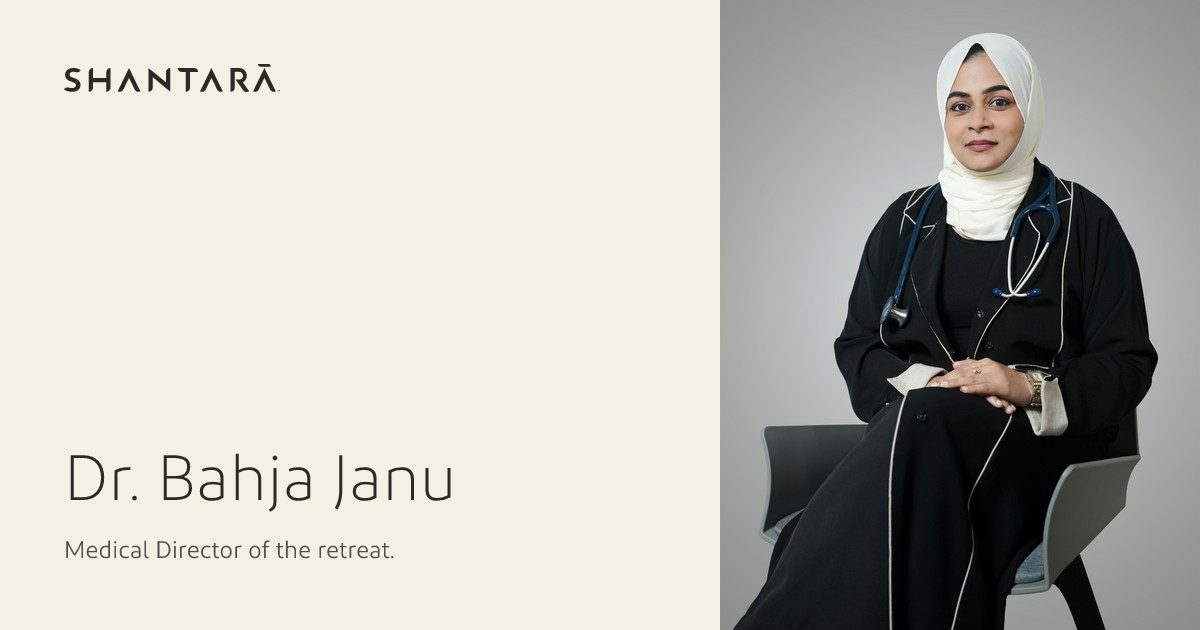
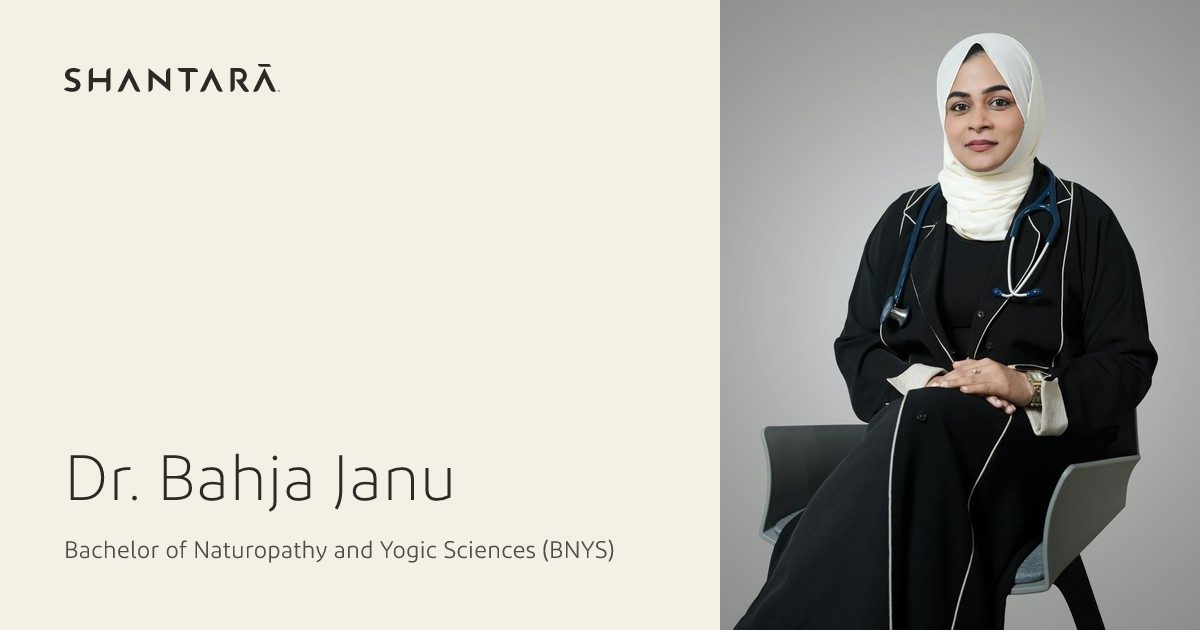
Record doctor credentials from resumes in handbook section 4 and content/doctors.
Fills Dr. Bahja Janu's qualifications, registrations and areas of practice, and adds Dr. Gangrei Gangmei, Dr. Keerthana V S and Dr. Sara Shanti Alen as draft records. Open questions stay [TO CONFIRM]. Kit doctor rows stay limited to the two lead doctors so PeopleRow keeps within four portraits.

Changed region(s): [[0.0617, 0.8444, 0.5242, 0.9048]]

diff --git a/content/kit.js b/content/kit.js
@@ -1248,18 +1248,93 @@ window.ShantaraContent = {
       "full_name": "Dr. Bahja Janu",
       "role": "Medical Director",
       "photo_profile": "doctor-bahja-janu-portrait-cropped.jpeg",
-      "qualification": null,
-      "years_practice": null,
+      "qualification": "Bachelor of Naturopathy and Yogic Sciences (BNYS)",
+      "registration": [
+        {
+          "body": "Travancore-Cochin Medical Council (TCMC), Kerala",
+          "number": null
+        },
+        {
+          "body": "Saudi Ministry of Health",
+          "number": null
+        }
+      ],
+      "years_practice": "13+",
       "publications_note": null,
-      "biography": null,
-      "areas_of_practice": [],
+      "biography": "Medical Director at Shantara since October 2025. Chief Medical Officer at Hygiene Nature Cure Hospital, Kozhikode, from 2012. Treats the root cause through a drug-free plan of diet and fasting therapy, hydrotherapy, manual therapy, mud therapy, yoga and mind-body work.",
+      "areas_of_practice": [
+        "Lifestyle disorders: diabetes, hypertension and obesity",
+        "Women's health",
+        "Therapeutic fasting and detox",
+        "Gut and metabolic health",
+        "Stress management",
+        "Preventive healthcare"
+      ],
+      "memberships": [
+        "Central Council for Research in Yoga & Naturopathy (CCRYN)",
+        "International Dorn Healer, AHHAI, Germany"
+      ],
+      "external_profiles": [
+        {
+          "title": "LinkedIn",
+          "url": "https://www.linkedin.com/in/dr-bahja-janu-89445324"
+        }
+      ],
       "locale": "en",
-      "source": "handbook",
+      "source": "resume",
       "status": "draft",
       "featured_image": {
         "src": "doctor-bahja-janu-portrait",
         "alt": "Dr. Bahja Janu"
       }
+    },
+    {
+      "id": "gangrei-gangmei",
+      "slug": "gangrei-gangmei",
+      "full_name": "Dr. Gangrei Gangmei",
+      "role": null,
+      "photo_profile": null,
+      "qualification": "Bachelor of Naturopathy and Yogic Sciences (BNYS)",
+      "registration": [],
+      "years_practice": null,
+      "publications_note": null,
+      "biography": null,
+      "areas_of_practice": [
+        "Naturopathy",
+        "Yoga therapy",
+        "Diet consultation",
+        "Acupuncture"
+      ],
+      "memberships": [],
+      "external_profiles": [],
+      "locale": "en",
+      "source": "resume",
+      "status": "draft"
+    },
+    {
+      "id": "keerthana-v-s",
+      "slug": "keerthana-v-s",
+      "full_name": "Dr. Keerthana V S",
+      "role": null,
+      "photo_profile": null,
+      "qualification": "Bachelor of Naturopathy and Yogic Sciences (BNYS)",
+      "registration": [],
+      "years_practice": null,
+      "publications_note": null,
+      "biography": null,
+      "areas_of_practice": [
+        "Naturopathy",
+        "Hydrotherapy",
+        "Acupuncture and acupressure",
+        "Yoga therapy",
+        "Diet and nutrition",
+        "Fasting therapy"
+      ],
+      "memberships": [],
+      "external_profiles": [],
+      "locale": "en",
+      "source": "resume",
+      "status": "draft"
     },
     {
       "id": "pa-kareem",
@@ -1268,12 +1343,15 @@ window.ShantaraContent = {
       "role": "Founder, Chairman & Chief Naturopathy Consultant",
       "photo_profile": "doctor-pa-kareem-portrait-cropped.jpeg",
       "qualification": "Government of India-certified Naturopathy Practitioner",
+      "registration": [],
       "years_practice": "26+",
       "publications_note": "Author of 17 books on naturopathy (Malayalam, English, Arabic)",
       "biography": "Founded Hygiene Nature Cure Hospital in 2000. Core approach: treat the cause through ethical, drug-free naturopathy.",
       "areas_of_practice": [
         "Naturopathy"
       ],
+      "memberships": [],
+      "external_profiles": [],
       "locale": "en",
       "source": "handbook",
       "status": "published",
@@ -1281,6 +1359,29 @@ window.ShantaraContent = {
         "src": "doctor-pa-kareem-portrait",
         "alt": "Dr. P.A. Kareem"
       }
+    },
+    {
+      "id": "sara-shanti-alen",
+      "slug": "sara-shanti-alen",
+      "full_name": "Dr. Sara Shanti Alen",
+      "role": null,
+      "photo_profile": null,
+      "qualification": "Bachelor of Naturopathy and Yogic Sciences (BNYS)",
+      "registration": [],
+      "years_practice": null,
+      "publications_note": null,
+      "biography": null,
+      "areas_of_practice": [
+        "Naturopathy",
+        "Yoga therapy and mindfulness",
+        "Diet planning",
+        "Stress and sleep"
+      ],
+      "memberships": [],
+      "external_profiles": [],
+      "locale": "en",
+      "source": "resume",
+      "status": "draft"
     }
   ],
   "articles": [

diff --git a/ui_kits/website/screens/ProgrammeScreen.js b/ui_kits/website/screens/ProgrammeScreen.js
@@ -51,7 +51,7 @@ function ProgrammeScreen({ onNavigate }) {
   ensureProgrammeCss();
   const C = window.ShantaraContent;
   const programme = (C.programs || []).find((p) => p.id === PROGRAMME_ID) || { name: "Detox", durations: "7–21 nights", proposition: "" };
-  const doctors = (C.doctors || []).map((d) => ({
+  const doctors = (C.doctors || []).filter((d) => ["pa-kareem", "bahja-janu"].includes(d.id)).map((d) => ({
     name: t(d.full_name),
     role: t(d.role),
     detail: d.qualification ? t(d.qualification) : undefined,

diff --git a/ui_kits/website/screens/AboutScreen.js b/ui_kits/website/screens/AboutScreen.js
@@ -3,7 +3,7 @@
    Copy comes from content/ (site, doctors) and the strings this screen already carried. */
 
 function aboutDoctors() {
-  return (window.ShantaraContent.doctors || []).map((d) => ({
+  return (window.ShantaraContent.doctors || []).filter((d) => ["pa-kareem", "bahja-janu"].includes(d.id)).map((d) => ({
     name: d.full_name,
     role: d.role,
     detail: [d.qualification, d.publications_note].filter(Boolean).join(". ") || undefined,

diff --git a/ui_kits/website/screens/HomeScreen.js b/ui_kits/website/screens/HomeScreen.js
@@ -11,7 +11,7 @@ function firstSentence(text) {
 }
 
 function homeDoctors(t) {
-  return (window.ShantaraContent.doctors || []).map((d) => ({
+  return (window.ShantaraContent.doctors || []).filter((d) => ["pa-kareem", "bahja-janu"].includes(d.id)).map((d) => ({
     name: t(d.full_name),
     role: t(d.role),
     detail: d.qualification ? t(d.qualification) : undefined,

diff --git a/content/README.md b/content/README.md
@@ -6,7 +6,7 @@ JSON records matching [`ui_kits/website/skill-content.md`](../ui_kits/website/sk
 
 1. Prefer these files over inventing programmes, rooms or NAP in kit screens or consumer apps.
 2. `status`: `published` | `draft`. Anything unconfirmed stays `draft`. There is no `to_confirm` flag.
-3. `source`: `handbook` | `kit` | `gap` | `rate-control-sheet`.
+3. `source`: `handbook` | `kit` | `gap` | `rate-control-sheet` | `resume` (doctor records built from the doctor's own resume; the full background is in handbook §4).
 4. Shared fields follow the content model: `featured_image` (`src` is a filename in `assets/photos/` without `.jpg`, plus `alt`), `featured`, `related_pages` (`{type, id}`; the reverse links are generated), `external_references` (`{title, url}`), `faqs`.
 5. Empty directories (`guest-stories/`, `events/`, `testimonials/`) mean the entity is **not ready**. Do not invent consent, quotes, or events.
 6. Draft conditions have empty `clinical` / `faqs` — listing summaries only until medical review.
